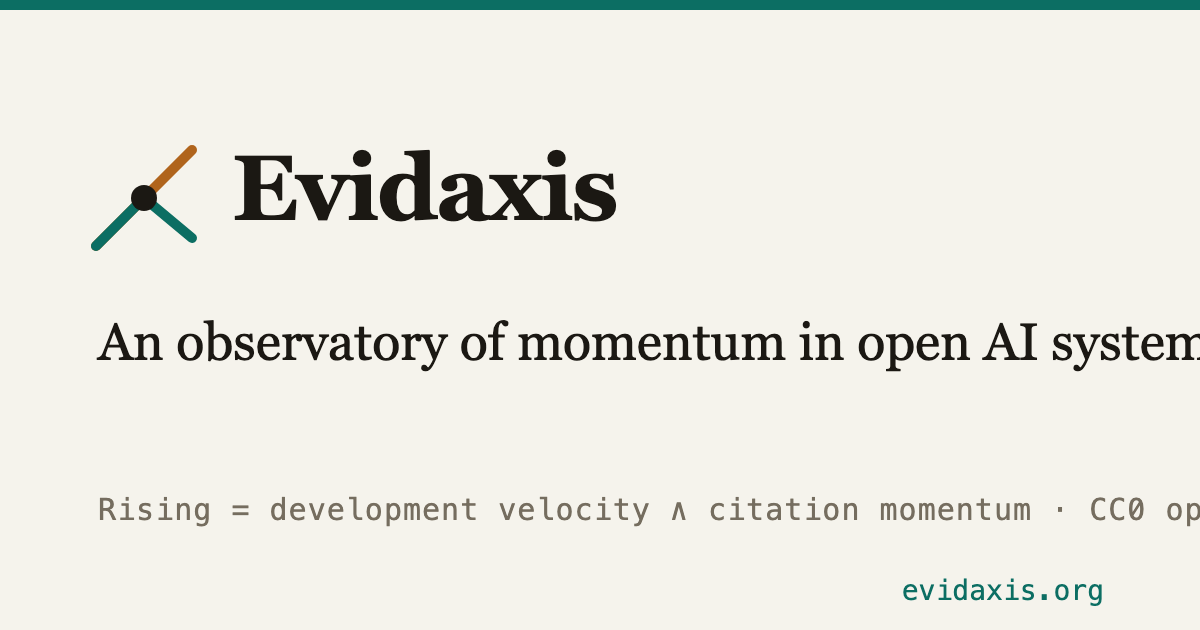
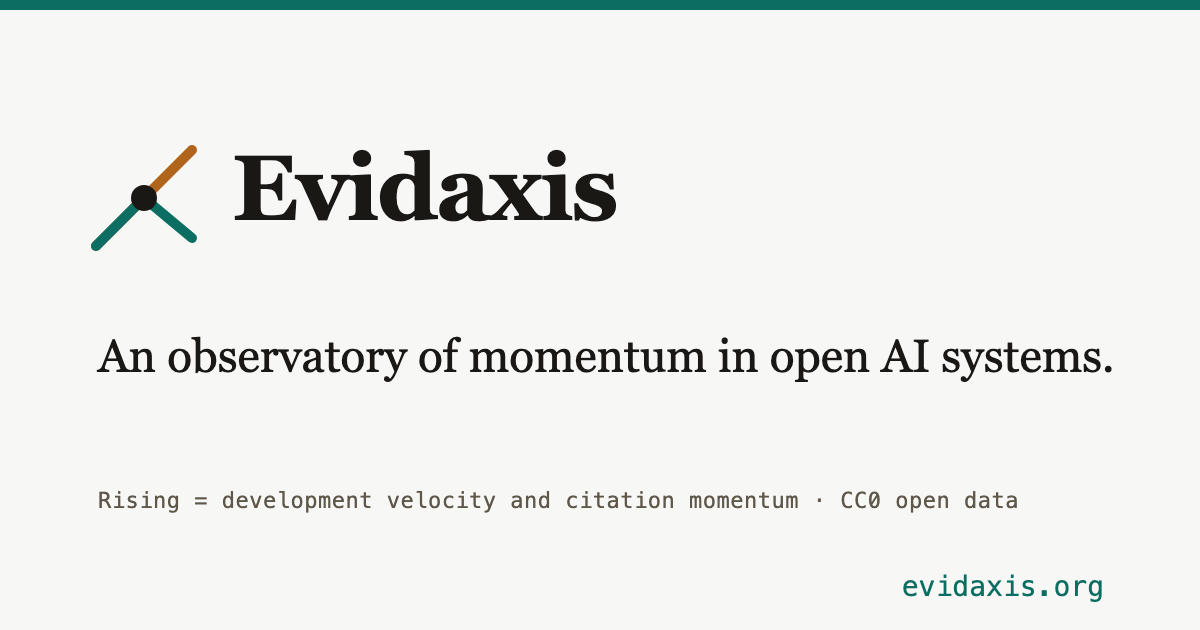
geo: snapshot Dataset variableMeasured + llms.txt system list + fix og image
- snapshotDataset now declares variableMeasured (Momentum, velocity-z,
  citation-z) as PropertyValue with methodology-anchor measurementTechnique,
  per the spar decision that the JSON-LD Dataset is the canonical machine
  surface. Only the universally-present primary variables are declared; per-
  entity derived signals stay on entity pages and only when shipped.
- llms.txt now enumerates all 19 tracked systems (name, momentum, status,
  cohort, entity + JSON URLs) so an LLM can reach every entity page directly;
  cohort labels run through cohortLabel (em-dash 0).
- og.svg/og.png rebuilt on the cool tokens (#f7f7f5 / #191814) with text sized
  to fit the 1200x630 canvas (both lines were clipping at the right edge).

diff --git a/web/src/lib/jsonld.ts b/web/src/lib/jsonld.ts
@@ -195,6 +195,31 @@ export function snapshotDataset(snap: Snapshot) {
         measurementTechnique: `${SITE}/methodology/current/`,
         citation: `Evidaxis Methodology ${snap.methodology_version}, ${SITE}/methodology/current/`,
         keywords: ['AI systems', 'momentum', 'open data', 'software ecosystems'],
+        // Canonical machine surface: the variables this dataset measures. Only the
+        // primary, universally-present quantities are declared here; per-entity
+        // derived signals are emitted on each entity page and only when shipped
+        // (reserved signals are never published as a number).
+        variableMeasured: [
+          {
+            '@type': 'PropertyValue',
+            name: 'Evidaxis Momentum Score',
+            description: 'Within-pilot percentile of the combined two-axis signal.',
+            minValue: 0, maxValue: 100, unitText: 'points',
+            measurementTechnique: `${SITE}/methodology/current/`,
+          },
+          {
+            '@type': 'PropertyValue',
+            name: 'Development-velocity z-score (within cohort)',
+            description: 'Log-slope of weekly commit activity, robust-z normalized within the cohort.',
+            measurementTechnique: `${SITE}/methodology/current/#velocity`,
+          },
+          {
+            '@type': 'PropertyValue',
+            name: 'Citation-momentum z-score (within cohort)',
+            description: 'Log-slope of yearly citations to the system paper, robust-z normalized within the cohort. Absent for systems with no measurable citation axis.',
+            measurementTechnique: `${SITE}/methodology/current/#citation`,
+          },
+        ],
         distribution: [
           { '@type': 'DataDownload', name: 'Full snapshot (JSON)', contentUrl: `${SITE}/snapshots/${snap.snapshot_date}/snapshot.json`, encodingFormat: 'application/json' },
         ],

diff --git a/web/src/pages/llms.txt.ts b/web/src/pages/llms.txt.ts
@@ -1,7 +1,12 @@
 import type { APIRoute } from 'astro';
-import { snapshot, SNAP_DATE } from '../lib/data';
+import { snapshot, SNAP_DATE, entities } from '../lib/data';
+import { cohortLabel } from '../lib/cohorts';
 
 export const GET: APIRoute = () => {
+  const ranked = [...entities].sort((a, b) => (b.momentum ?? -1) - (a.momentum ?? -1));
+  const systemList = ranked
+    .map((e) => `- [${e.name}](https://evidaxis.org/e/${e.entity_id}/): momentum ${e.momentum != null ? e.momentum.toFixed(1) : 'n/a'}, status ${e.status}, cohort ${cohortLabel(e.cohort)}. JSON: https://evidaxis.org/e/${e.entity_id}.json`)
+    .join('\n');
   const txt = `# Evidaxis
 
 > Evidaxis is an independent data observatory that measures open-source and research-native AI
@@ -29,6 +34,10 @@ Each measured system has a canonical record at https://evidaxis.org/e/{entity_id
 record and JSON-LD) and a machine-readable record at https://evidaxis.org/e/{entity_id}.json. Cite the
 record plus the snapshot period, e.g. "Evidaxis momentum for {System}, snapshot ${snapshot.period}
 (https://evidaxis.org/e/{entity_id})".
+
+## Tracked systems (snapshot ${snapshot.period}, ranked by momentum)
+
+${systemList}
 
 ## Machine-readable access (no API needed)
 
